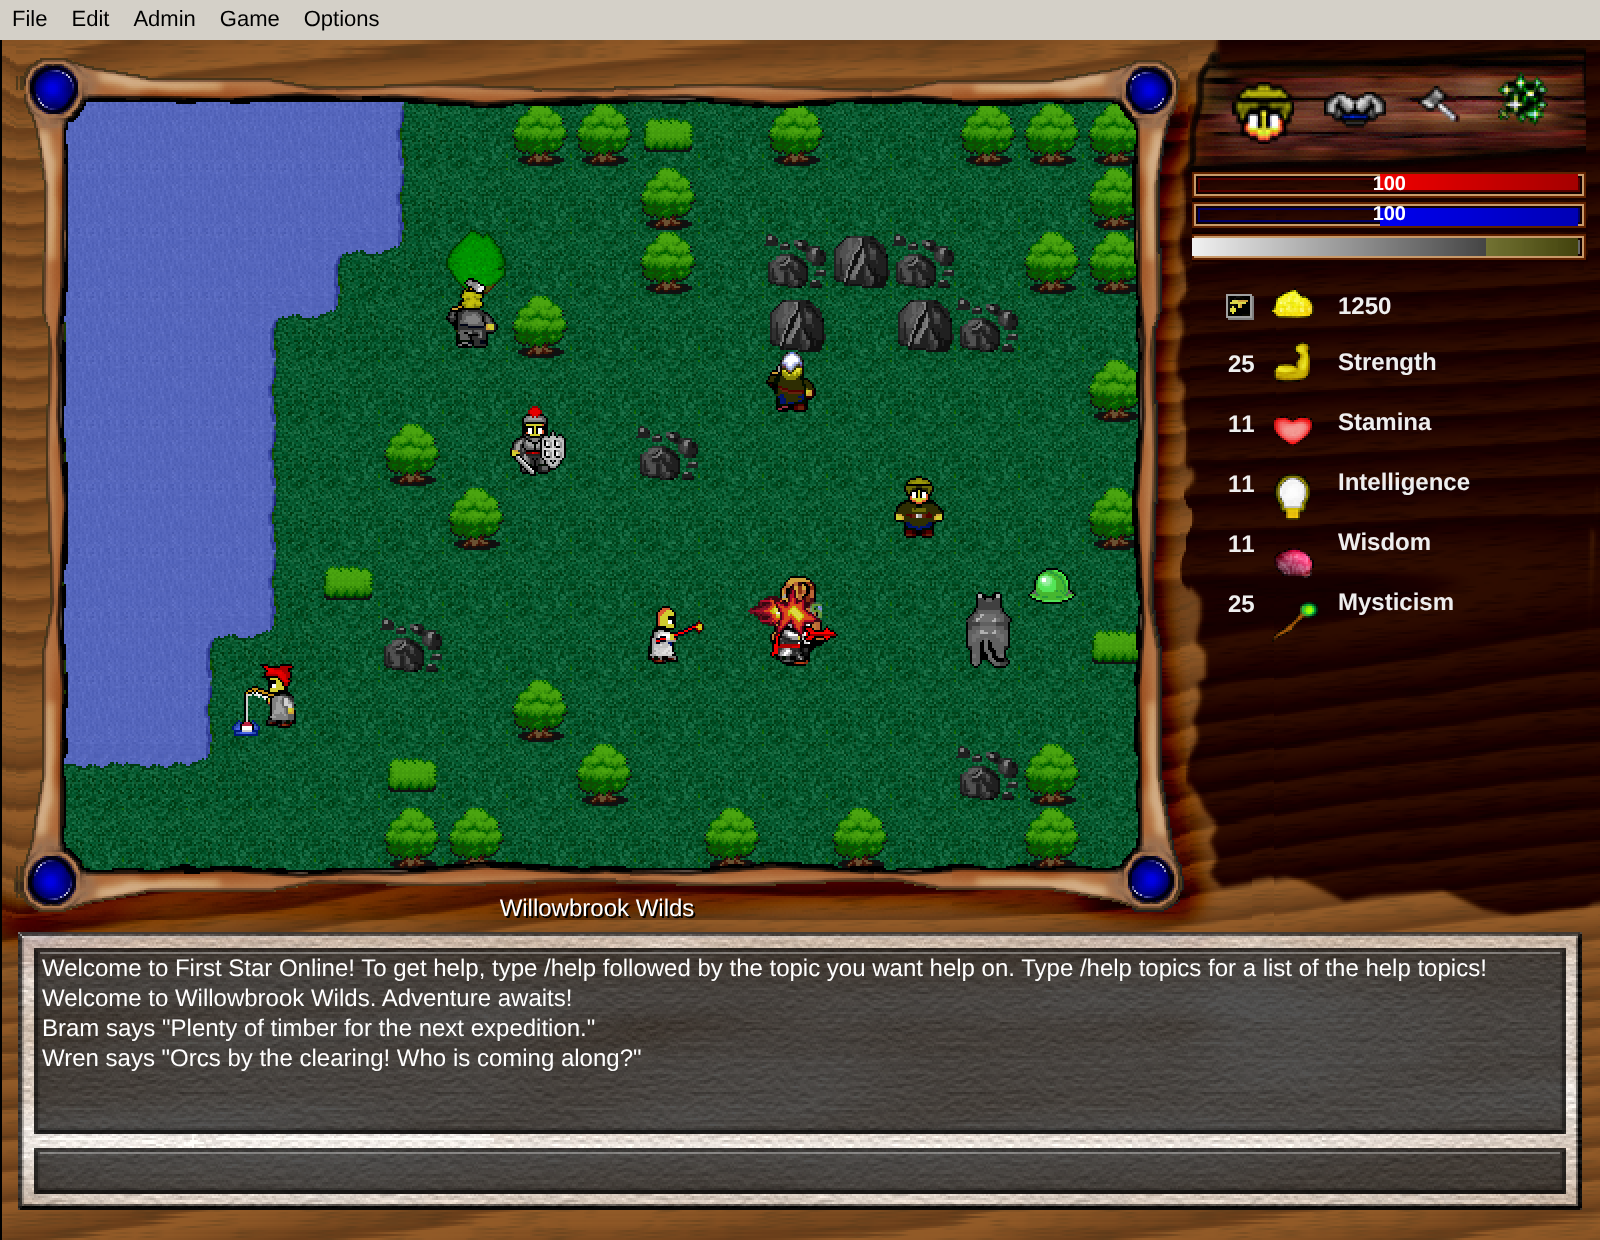
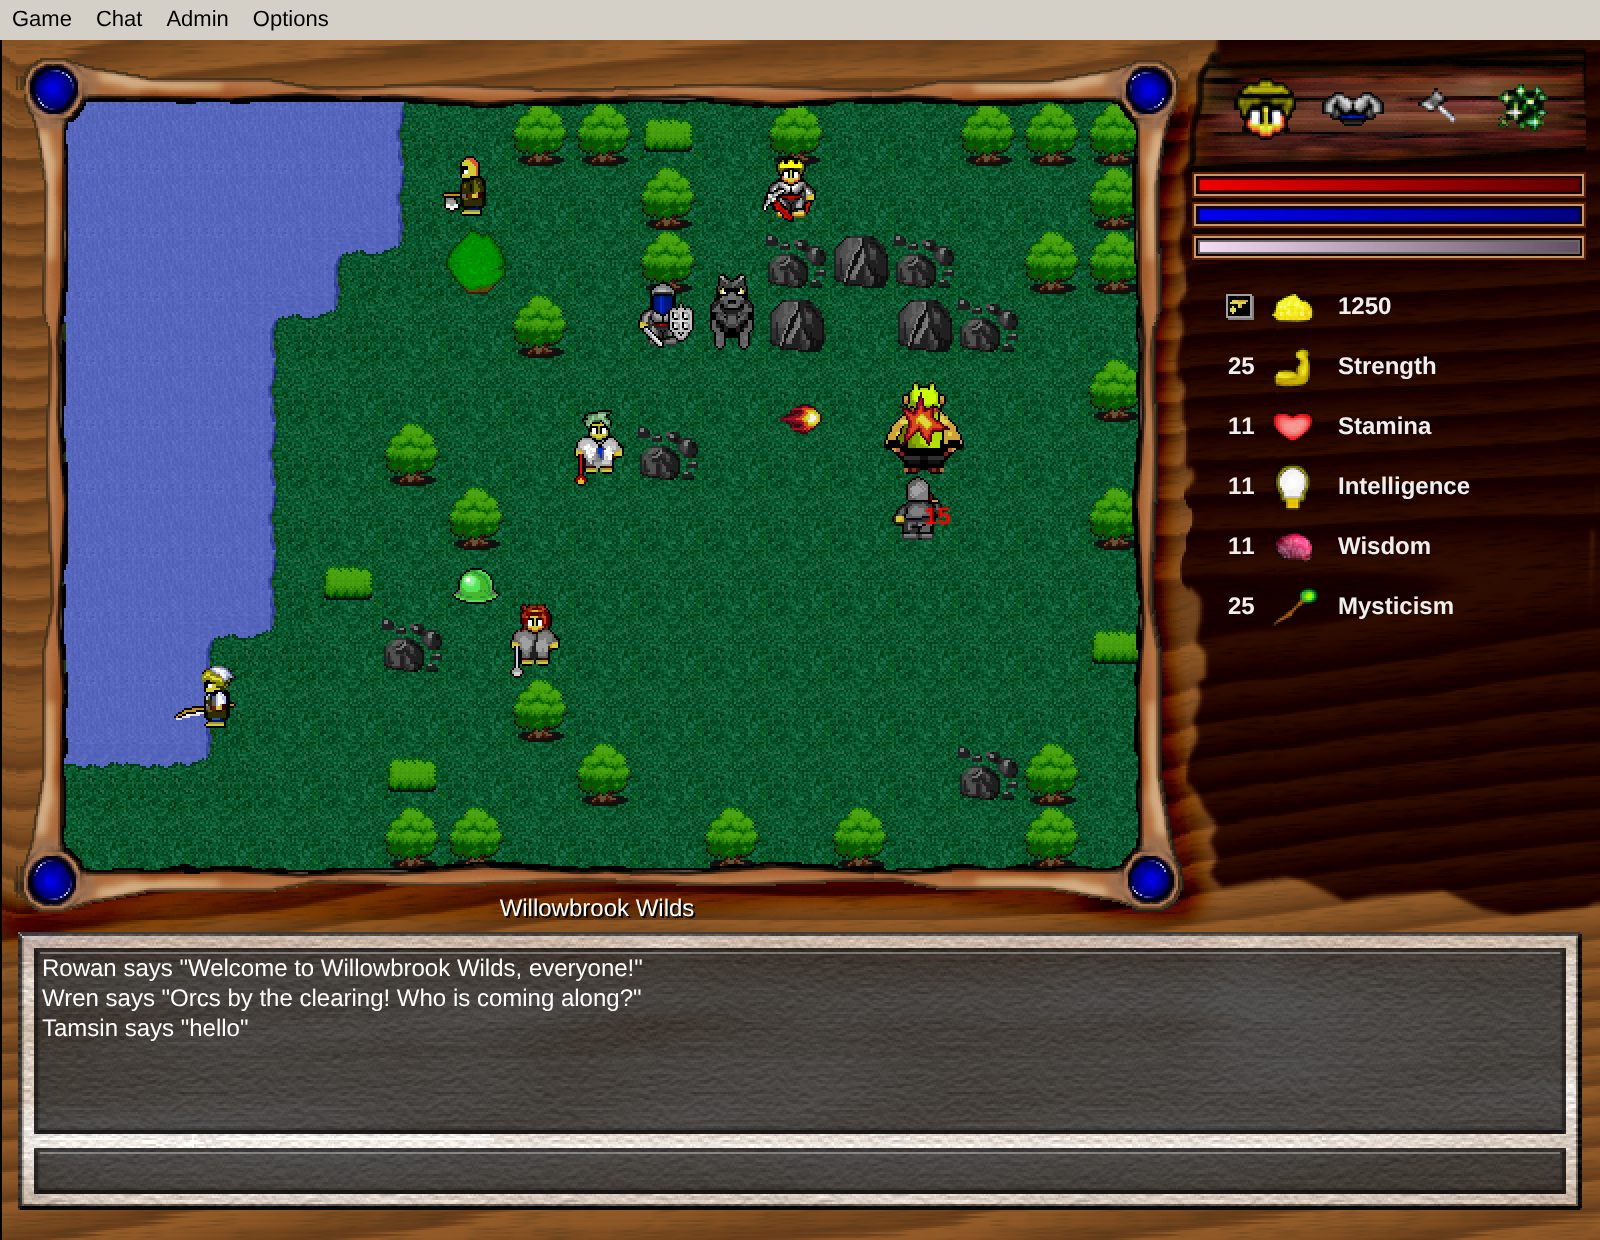
Refresh the README screenshots and gather them at the bottom
Retake the gameplay and World Editor shots under the regrouped menu bar,
add the title screen and Server Settings window, and show all four as
linked thumbnails in a Screenshots section instead of full-width images
with captions.

diff --git a/README.md b/README.md
@@ -6,10 +6,6 @@ Second Star Online brings First Star Online 1.6 to the web: a multiplayer RPG wh
 
 Open source and ready to host, Second Star Online gives you the tools to create a community and make the world your own.
 
-![Seven adventurers in varied armor and robes fishing, chopping wood, casting a fireball, and fighting monsters in a forest beside a lake.](docs/images/gameplay.png)
-
-*Willowbrook Wilds, the starter landscape, shown with a staged party fishing, gathering, and fighting monsters.*
-
 ## Find your adventure
 
 - **Explore and grow.** Venture across maps, face monsters, learn skills and spells, and gather resources for your next expedition.
@@ -39,10 +35,6 @@ Each new server begins in Willowbrook Wilds, a forest-and-lake seed world that y
 
 ## Make it your own
 
-![The Willowbrook Wilds map in the World Editor, showing the tile palette, map layers, monsters, items, and world settings.](docs/images/world-editor.png)
-
-*The same forest in the built-in World Editor. Shape the map, place monsters and items, and save your changes in-game.*
-
 Use the in-game World Editor, NPC Editor, and server settings to shape your server. For deeper changes, the [modding guide](docs/modding.md) explains how to customize game data, add art and sound, and build your own image.
 
 Want to work on the game itself? Clone this repository, install [Bun](https://bun.sh/), and run:
@@ -60,3 +52,16 @@ See the [contributor command guide](docs/scripts.md) for build and verification 
 - [Game system guides](docs/guides/README.md) — how the world and its mechanics work.
 - [Report an issue](https://github.com/jberlyn/second-star-online/issues) — share a bug or suggest an improvement.
 - [LICENSE](LICENSE) and [NOTICE](NOTICE) — the SSO code license and attribution for original art, sounds, and other material.
+
+## Screenshots
+
+<table>
+  <tr>
+    <td width="50%"><a href="docs/images/title-screen.png"><img src="docs/images/title-screen.png" alt="The Second Star Online title screen, with Load Character and New Character options over a red curtain."></a></td>
+    <td width="50%"><a href="docs/images/gameplay.png"><img src="docs/images/gameplay.png" alt="Adventurers fishing, chopping wood, casting a fireball at an orc, and chatting in Willowbrook Wilds, a forest beside a lake."></a></td>
+  </tr>
+  <tr>
+    <td width="50%"><a href="docs/images/world-editor.png"><img src="docs/images/world-editor.png" alt="The Willowbrook Wilds map in the World Editor, showing the tile palette, map layers, monsters, items, and map settings."></a></td>
+    <td width="50%"><a href="docs/images/server-settings.png"><img src="docs/images/server-settings.png" alt="The Server Settings window open on its World page, with the starting map, fallback map, and NPC chatter settings."></a></td>
+  </tr>
+</table>
